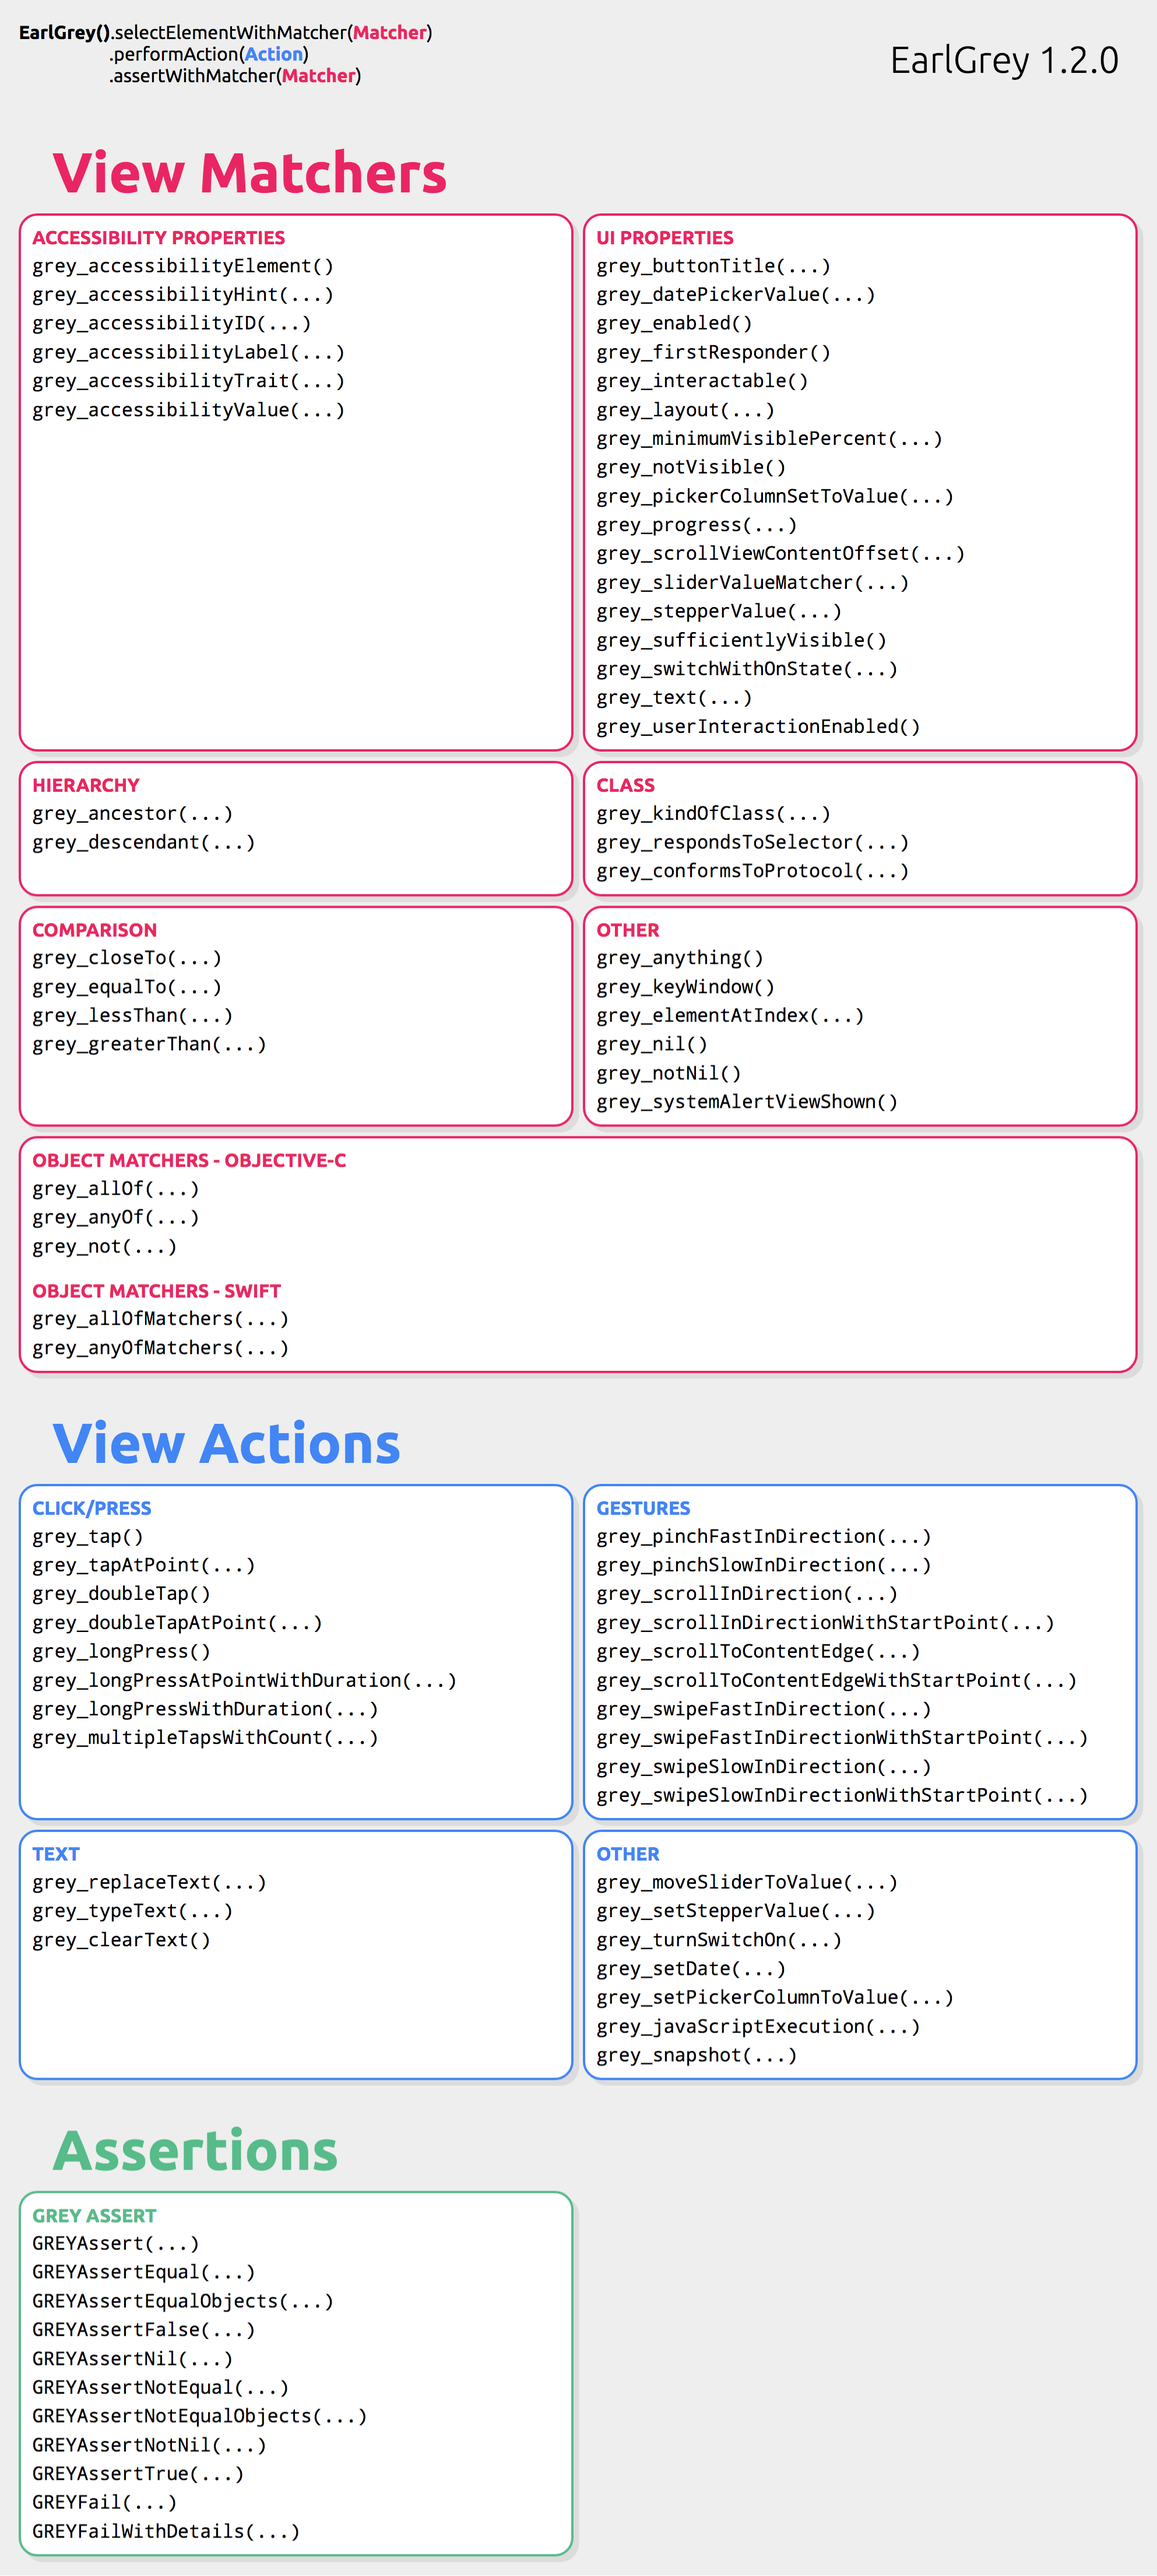
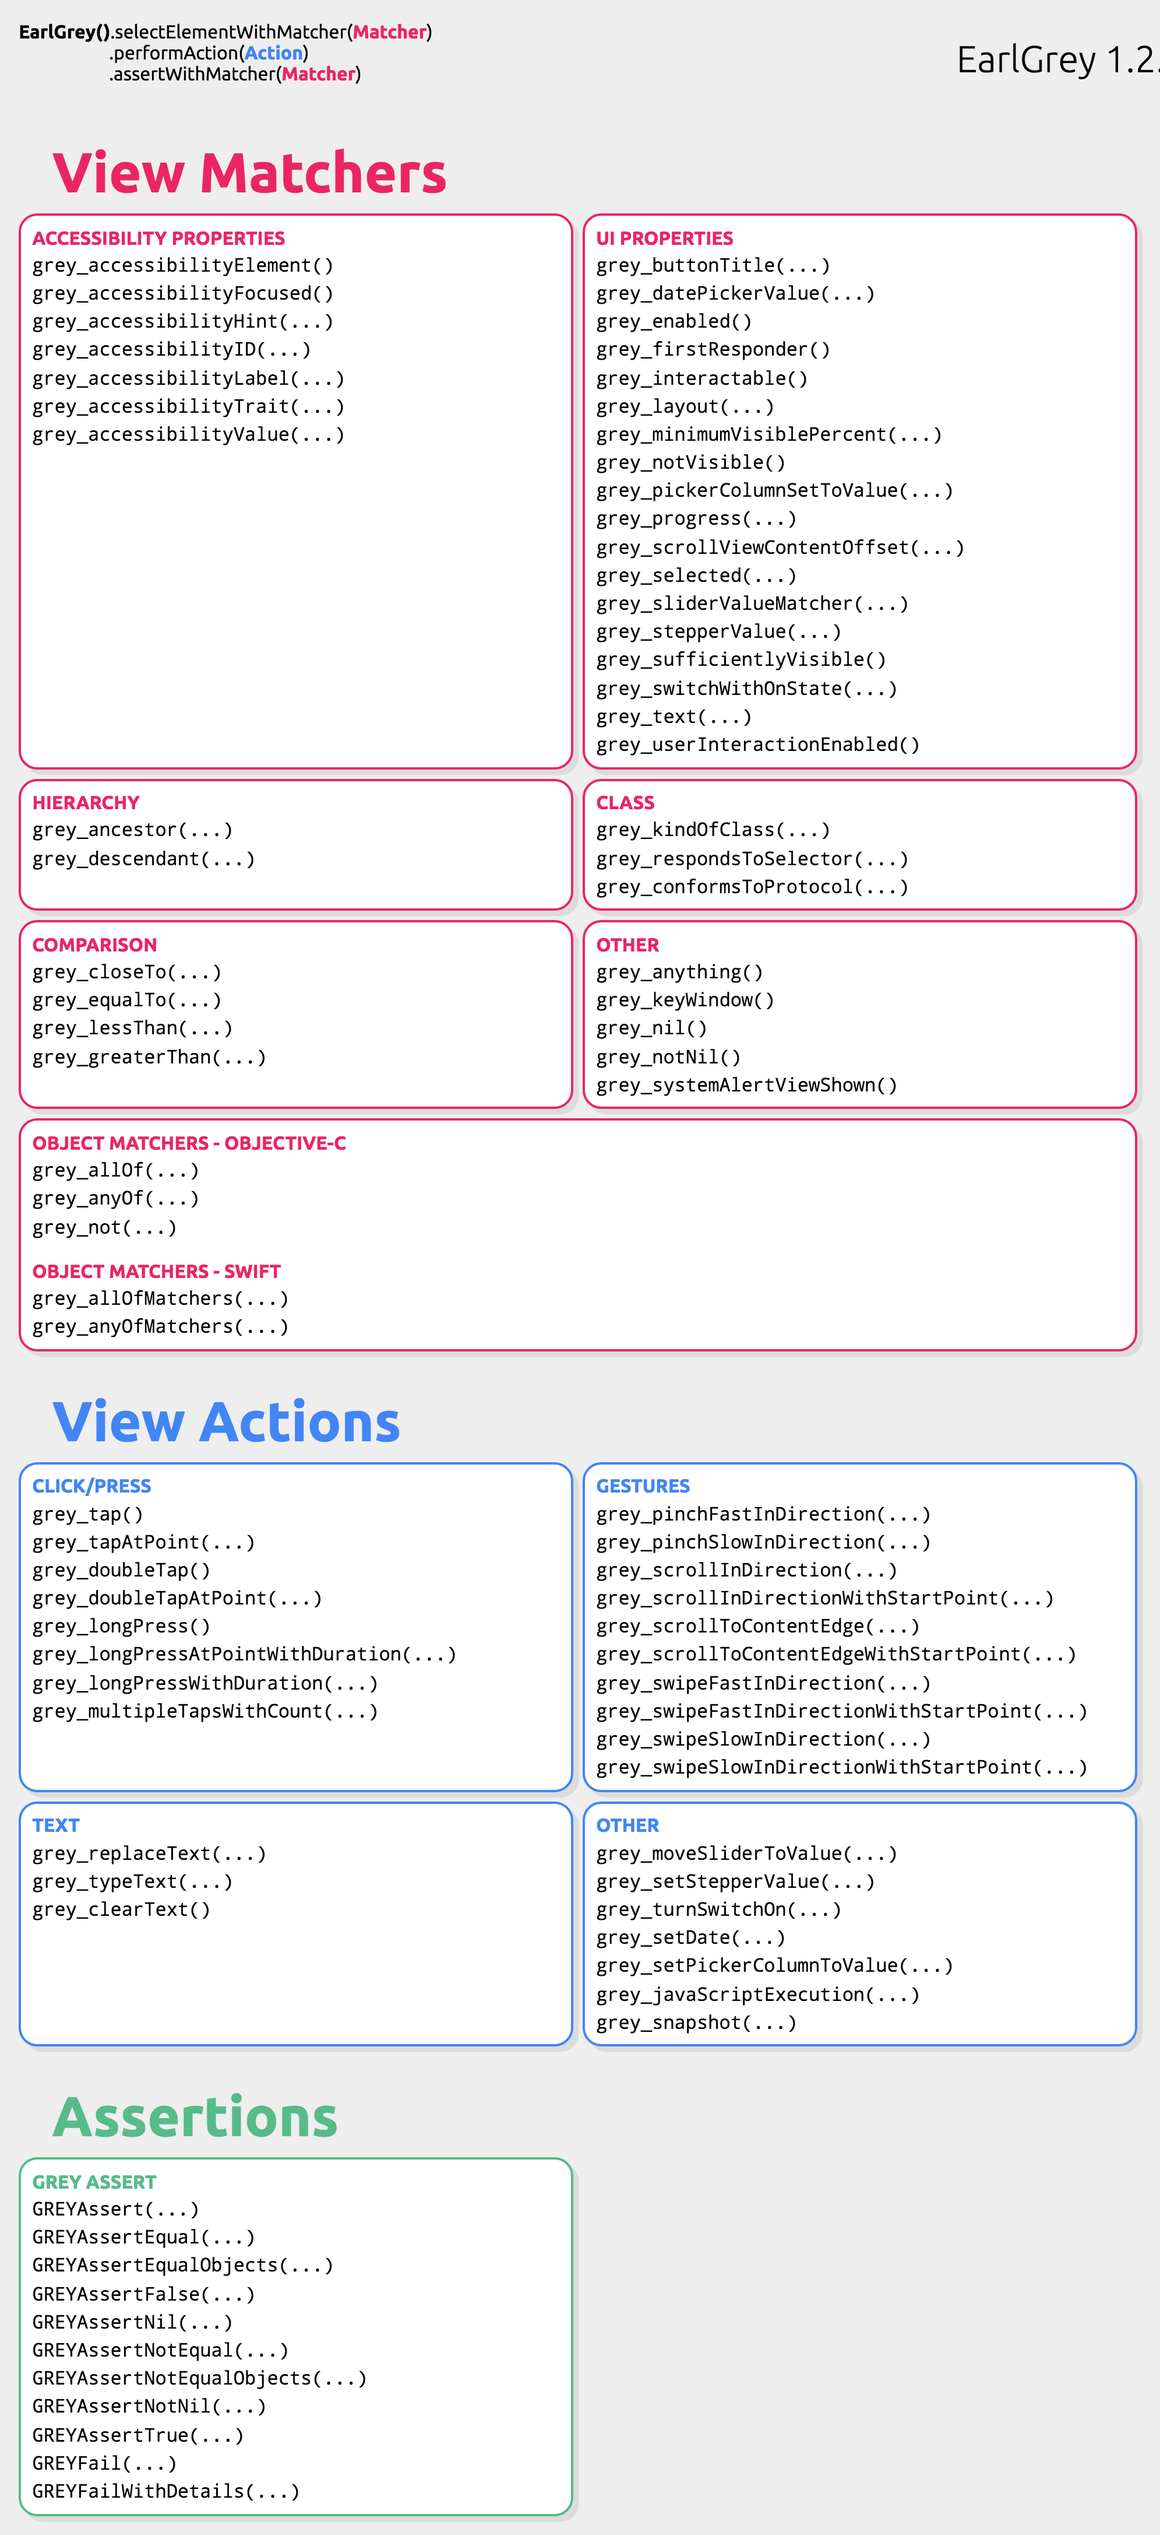
Update Podspec and Cheatsheet for 1.3.0 release [ci skip]

diff --git a/docs/cheatsheet/cheatsheet.html b/docs/cheatsheet/cheatsheet.html
@@ -66,6 +66,7 @@ EarlGrey 1.2.0
       <li>grey_pickerColumnSetToValue(...)</li>
       <li>grey_progress(...)</li>
       <li>grey_scrollViewContentOffset(...)</li>
+      <li>grey_selected(...)</li>
       <li>grey_sliderValueMatcher(...)</li>
       <li>grey_stepperValue(...)</li>
       <li>grey_sufficientlyVisible()</li>
